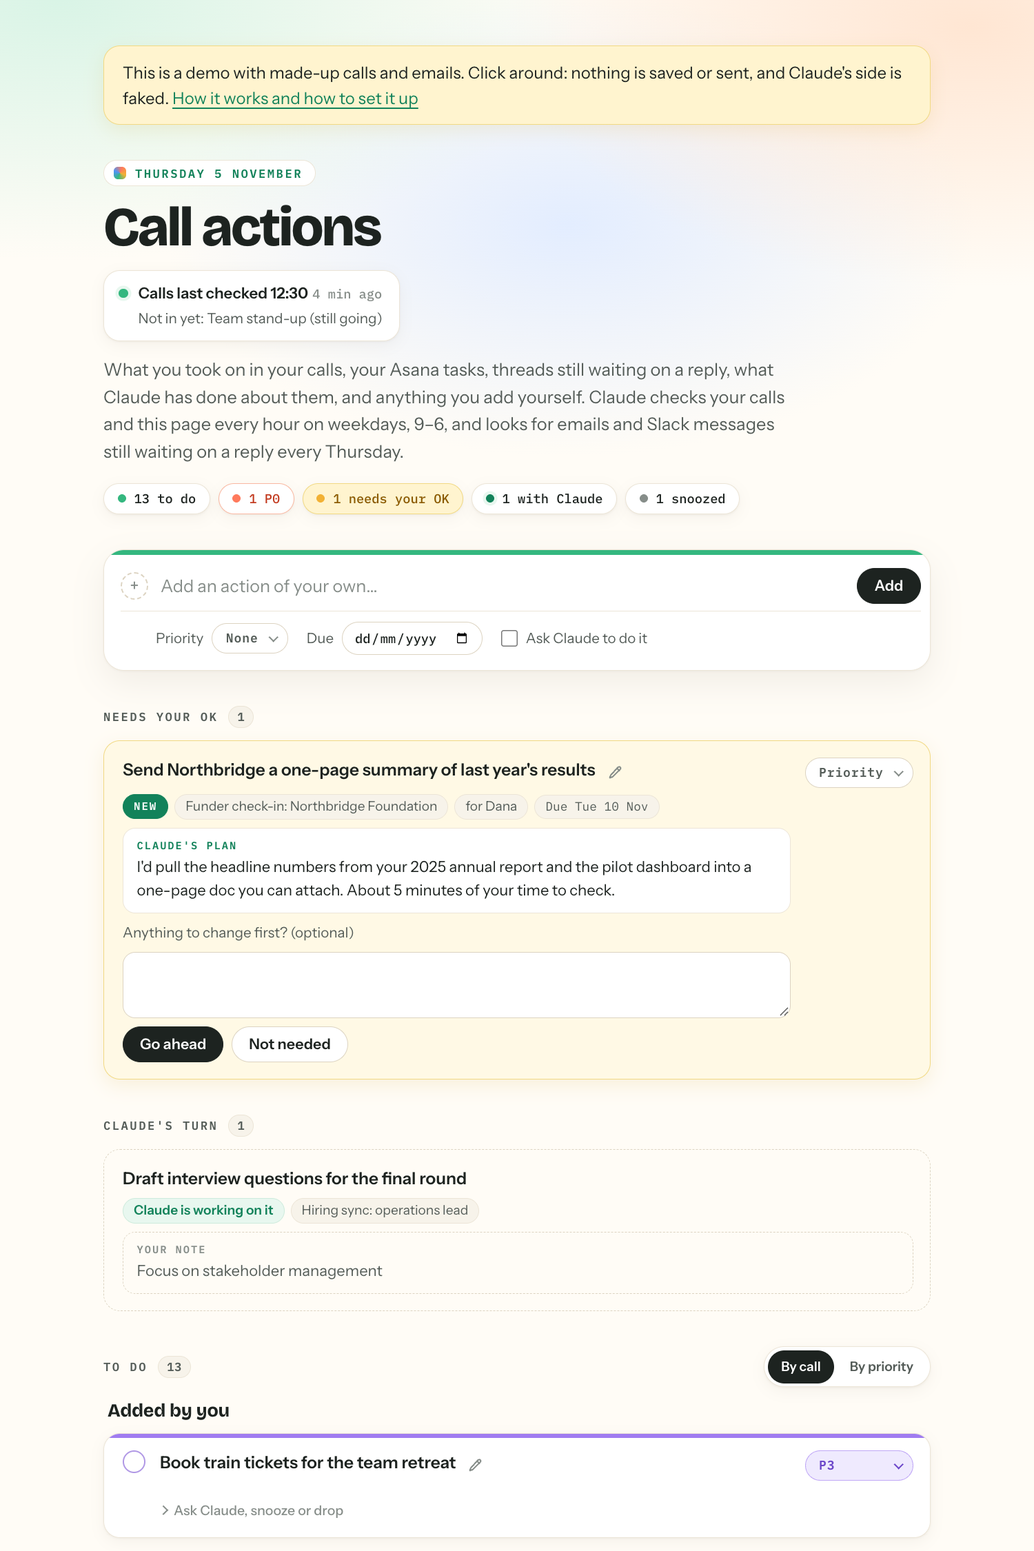
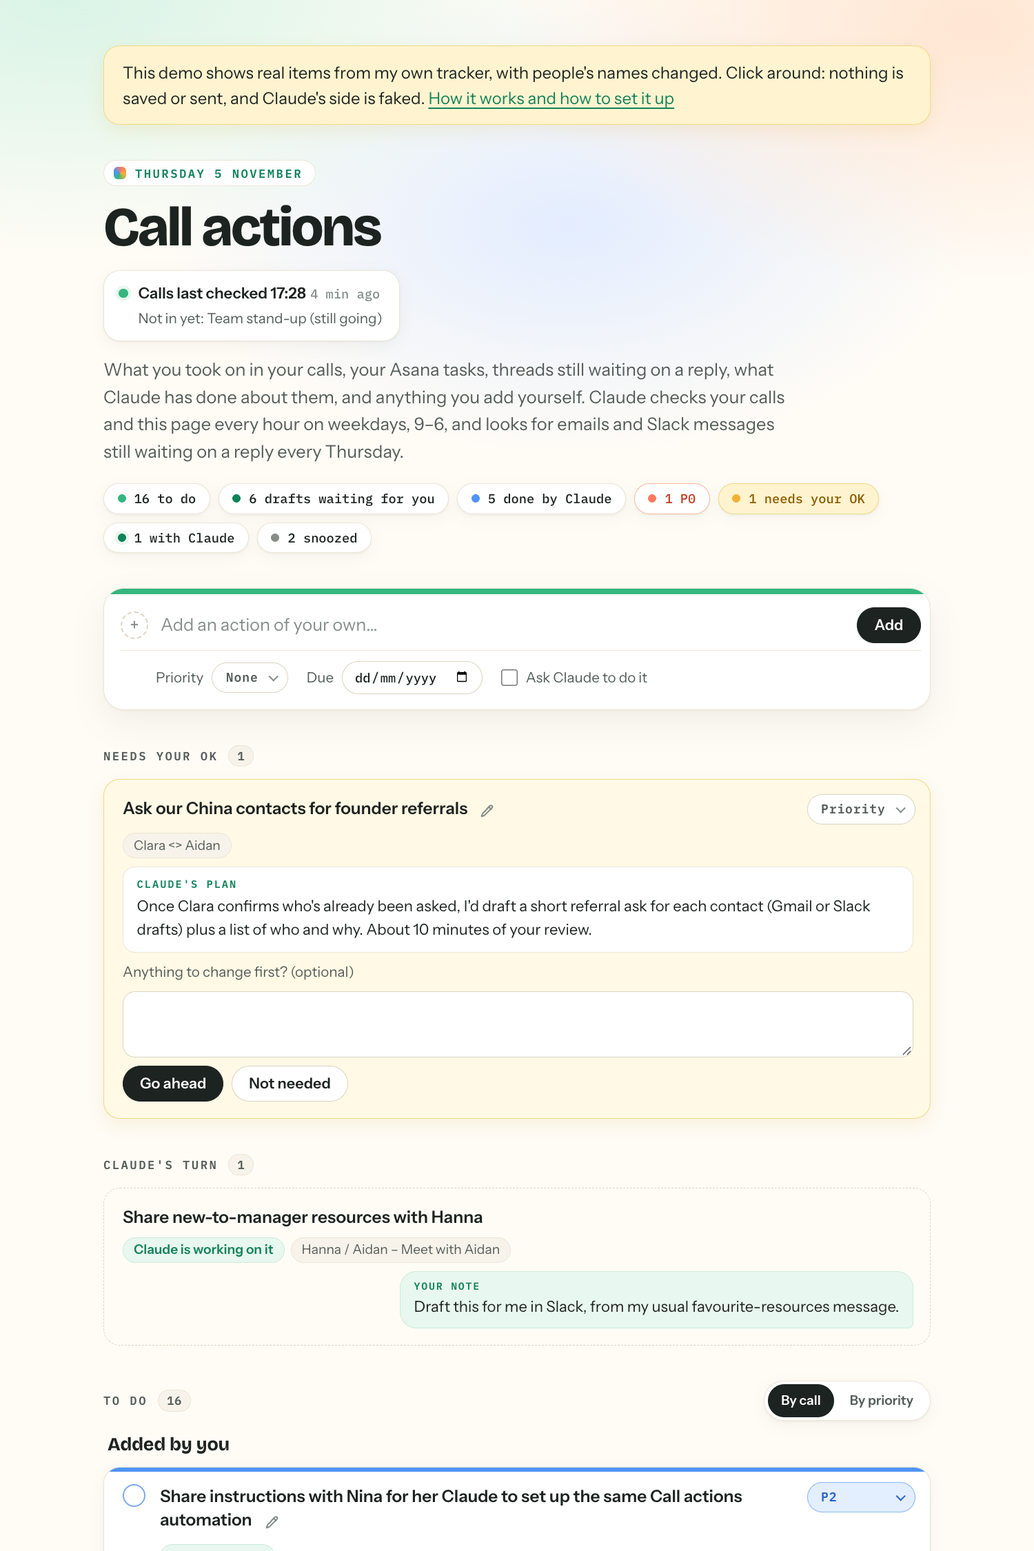
Call actions demo: real items from Aidan's tracker, names changed
Shows the range: drafts, things Claude did, a plan, snoozes with his
reminder notes, Asana tasks with context, and his real feedback with
Claude's replies. Follow-ups stay made up. New screenshot.

diff --git a/call-actions/demo/demo.js b/call-actions/demo/demo.js
@@ -1,5 +1,5 @@
 // Demo data for the Call actions page. It stands in for the claude.ai runtime (window.claude), so the
-// real page runs here with made-up calls and emails. Nothing is saved or sent: reload to start again.
+// real page runs here with real items from Aidan's tracker (names changed) and a few made-up ones. Nothing is saved or sent: reload to start again.
 // Claude's side is faked and sped up: things you queue get "done" in a few seconds, with canned text.
 (() => {
   "use strict";
@@ -14,61 +14,123 @@
   const SUMMARY = "../../summarise-granola/example/";
   const demo = (label) => ({ label: label + " (demo)", url: ABOUT });
 
+  // Real items from Aidan's own tracker, with people's names changed, and some of his real feedback.
+  // The follow-ups at the end are made up.
   const calls = {
-    "demo-call-1": { title: "Funder check-in: Northbridge Foundation", date: day(0), summaryUrl: SUMMARY, actionCount: 3, error: null, addedAt: ago(2 * HOUR) },
-    "demo-call-2": { title: "Weekly 1:1: Priya / Sam", date: day(-1), summaryUrl: SUMMARY, actionCount: 3, error: null, addedAt: ago(26 * HOUR) },
-    "demo-call-3": { title: "Hiring sync: operations lead", date: day(-2), summaryUrl: SUMMARY, actionCount: 2, error: null, addedAt: ago(50 * HOUR) },
-    "demo-call-4": { title: "Board prep with Jo", date: day(-4), summaryUrl: SUMMARY, actionCount: 3, error: null, addedAt: ago(98 * HOUR) },
-    "demo-call-5": { title: "Intro call: volunteer coordinator", date: day(-5), summaryUrl: SUMMARY, actionCount: 0, error: null, addedAt: ago(122 * HOUR) },
+    "c-weekly": { title: "Rafael / Aidan – Weekly 1:1", date: day(-1), summaryUrl: SUMMARY, actionCount: 3, error: null, addedAt: ago(26 * HOUR) },
+    "c-incub": { title: "Incubator discussion", date: day(-1), summaryUrl: SUMMARY, actionCount: 4, error: null, addedAt: ago(24 * HOUR) },
+    "c-theo": { title: "Theo / Aidan", date: day(-2), summaryUrl: SUMMARY, actionCount: 3, error: null, addedAt: ago(50 * HOUR) },
+    "c-ines": { title: "Ines / Aidan", date: day(-2), summaryUrl: SUMMARY, actionCount: 1, error: null, addedAt: ago(49 * HOUR) },
+    "c-hanna": { title: "Hanna / Aidan – Meet with Aidan", date: day(-2), summaryUrl: SUMMARY, actionCount: 2, error: null, addedAt: ago(48 * HOUR) },
+    "c-clara": { title: "Clara <> Aidan", date: day(-2), summaryUrl: SUMMARY, actionCount: 4, error: null, addedAt: ago(47 * HOUR) },
+    "c-ben": { title: "Ben <> Aidan feedback", date: day(-3), summaryUrl: SUMMARY, actionCount: 2, error: null, addedAt: ago(74 * HOUR) },
+    "c-round": { title: "Animal round: plan to February", date: day(-6), summaryUrl: SUMMARY, actionCount: 0, error: null, addedAt: ago(146 * HOUR) },
   };
   const fromCall = (id, n) => ({ source: "call", n, callId: id, callTitle: calls[id].title, callDate: calls[id].date, summaryUrl: calls[id].summaryUrl });
 
   const actions = {
-    "demo-a1": Object.assign(fromCall("demo-call-1", 1), { text: "Send Northbridge a one-page summary of last year's results", kind: "plan", state: "needs_ok", who: "for Dana", due: day(5),
-      claude: "I'd pull the headline numbers from your 2025 annual report and the pilot dashboard into a one-page doc you can attach. About 5 minutes of your time to check.", links: [], createdAt: ago(2 * HOUR) }),
-    "demo-a2": Object.assign(fromCall("demo-call-1", 2), { text: "Email Dana the case study she asked for", kind: "drafted", state: "open", who: "for Dana", priority: "P1",
-      claude: "Drafted a reply on your thread with Dana, linking the case study you mentioned. Ready to check and send.", links: [demo("Gmail draft")], createdAt: ago(2 * HOUR) }),
-    "demo-a3": Object.assign(fromCall("demo-call-1", 3), { text: "Decide whether to apply for the larger grant tier", kind: "yours", state: "open", due: day(9),
-      claude: "Dana said the deadline is the end of the month. The eligibility criteria are linked.", links: [demo("Eligibility criteria")],
-      note: "Is the larger tier open to organisations our size?", noteAt: ago(90 * 60000),
-      reply: "Yes: the criteria say any registered charity under £5m a year can apply, so you qualify.", createdAt: ago(2 * HOUR) }),
-    "demo-a4": Object.assign(fromCall("demo-call-2", 1), { text: "Give Tom feedback on the pilot report", kind: "yours", state: "open", who: "for Tom", due: day(1), createdAt: ago(26 * HOUR) }),
-    "demo-a5": Object.assign(fromCall("demo-call-2", 2), { text: "Share the onboarding checklist with Priya", kind: "drafted", state: "done", doneAt: ago(20 * HOUR), createdAt: ago(26 * HOUR) }),
-    "demo-a6": Object.assign(fromCall("demo-call-2", 3), { text: "Check in on the pilot sign-up numbers", kind: "yours", state: "open", due: day(60),
-      claude: "You asked Claude to remind you in two months. It turns P0 the day before it's due.", createdAt: ago(26 * HOUR) }),
-    "demo-a7": Object.assign(fromCall("demo-call-3", 1), { text: "Check references for the two finalists", kind: "yours", state: "open", priority: "P1", due: day(2), createdAt: ago(50 * HOUR) }),
-    "demo-a8": Object.assign(fromCall("demo-call-3", 2), { text: "Draft interview questions for the final round", kind: "plan", state: "working", queuedAt: ago(HOUR),
-      note: "Focus on stakeholder management", noteAt: ago(HOUR), createdAt: ago(50 * HOUR) }),
-    "demo-a9": Object.assign(fromCall("demo-call-4", 1), { text: "Ask Jo which board papers need sign-off", kind: "yours", state: "open", who: "for Jo", priority: "P2", createdAt: ago(98 * HOUR) }),
-    "demo-a10": Object.assign(fromCall("demo-call-4", 2), { text: "Send the board pack to all trustees", kind: "yours", state: "dropped", doneAt: ago(70 * HOUR),
-      note: "The chair sends this, not me", noteAt: ago(70 * HOUR), createdAt: ago(98 * HOUR) }),
-    "demo-a12": Object.assign(fromCall("demo-call-4", 3), { text: "Block time to read the board pack", kind: "did", state: "open", priority: "P2", due: day(3),
-      claude: "You asked for time to read it before the meeting, so I blocked Thursday 10:00–11:30 in your calendar as \"Read the board pack\". No guests, so nothing was sent.",
-      links: [demo("Calendar hold")], createdAt: ago(98 * HOUR) }),
-    "demo-a11": { text: "Book train tickets for the team retreat", kind: "manual", source: "manual", state: "open", priority: "P3", createdAt: ago(30 * HOUR) },
-    "asana-demo-1": { text: "Review the volunteer handbook draft", source: "asana", kind: "yours", state: "open", due: day(3),
-      asanaProject: "Volunteering 2027", asanaUrl: "https://asana.com/", createdAt: ago(3 * DAY) },
-    "asana-demo-3": { text: "Review", source: "asana", kind: "yours", state: "open", due: day(6), who: "from Sam",
-      asanaParent: "Volunteer impact report", asanaProject: "Reports", asanaUrl: "https://asana.com/", asanaName: "Review",
-      claude: "Your review of Priya's \"Volunteer impact report\", after the first draft and before she sends it to the board. Jo is reviewing too; the report is due in two weeks.",
+    // Needs your OK: a plan
+    "a-plan": Object.assign(fromCall("c-clara", 3), { text: "Ask our China contacts for founder referrals", kind: "plan", state: "needs_ok",
+      claude: "Once Clara confirms who's already been asked, I'd draft a short referral ask for each contact (Gmail or Slack drafts) plus a list of who and why. About 10 minutes of your review.",
+      links: [], createdAt: ago(47 * HOUR) }),
+    // Drafts waiting for you
+    "a-pm": Object.assign(fromCall("c-clara", 1), { text: "Draft how we'll judge the second-interview experiment", kind: "drafted", state: "open", who: "for Clara", priority: "P1",
+      claude: "Drafted a first version in a new doc: what's being tested, what we can measure, nine questions for Clara and a suggested decision rule. Two [NEED] gaps to fill, then share it with Clara.",
+      links: [demo("Draft doc")], createdAt: ago(47 * HOUR) }),
+    "a-sched": Object.assign(fromCall("c-incub", 2), { text: "Send Marta a scheduling link for the programme design follow-up", kind: "drafted", state: "open", who: "for Marta", priority: "P1",
+      claude: "Drafted a reply on her thread with your scheduling link. Check the link before sending.", links: [demo("Gmail draft")], createdAt: ago(24 * HOUR) }),
+    "a-tips": Object.assign(fromCall("c-incub", 1), { text: "Collate incubation-coaching tips from calls, flagged sensitive vs shareable", kind: "drafted", state: "open",
+      claude: "I made a tighter version and left the original as it was: 45 items instead of about 70, split into \"Advice for others\" (grouped by topic) and \"How we do it\", each still tagged shareable or sensitive.",
+      links: [demo("Tips doc")], note: "It's very thorough but maybe a bit unwieldy, with too many items. Is that the best way to collate insights to later distil?",
+      noteAt: ago(22 * HOUR), reply: "I'd keep the long dated list as the raw log while calls keep coming, and distil an advice-only version once there are three or four calls behind it.",
+      createdAt: ago(24 * HOUR) }),
+    "a-manual": { text: "Share instructions with Nina for her Claude to set up the same Call actions automation", kind: "drafted", source: "manual", state: "open", priority: "P2",
+      claude: "I've revised the doc to follow your note: setup is now one screen with your choices pre-selected, so she can just click Next.", links: [demo("Setup doc")],
+      note: "The best way to do setup is one screen with a bunch of choices, with my choice there by default.", noteAt: ago(30 * HOUR),
+      reply: "Done: it's one screen now, with your choices ticked by default.", createdAt: ago(3 * DAY) },
+    // Done by Claude
+    "a-ines": Object.assign(fromCall("c-ines", 1), { text: "Block time for the content-role candidate vetting", kind: "did", state: "open", who: "for Ines",
+      claude: "Blocked Thursday 09:30–11:45 and Friday 09:00–12:45 in your calendar as \"Content-role candidate vetting\". No guests, so nothing was sent.",
+      links: [demo("Thursday hold"), demo("Friday hold")],
+      note: "Block out the first half of Thursday and Friday in my calendar, where I don't already have things scheduled.", noteAt: ago(48 * HOUR),
+      reply: "Done: holds in your own calendar, in the free time, with no guests.", createdAt: ago(49 * HOUR) }),
+    "a-clara-li": Object.assign(fromCall("c-clara", 4), { text: "Ask Clara whether we've sent outreach from the founders' LinkedIn accounts", kind: "did", state: "open", who: "for Clara",
+      claude: "Fixed: added a new section for your next 1:1 (copied from the doc's Template tab), with the point in your cell. Clara has declined the one before, so it's the one after. I also removed the earlier copy from the past meeting.",
+      links: [demo("1:1 doc with Clara")],
+      note: "You added it to a meeting gone by. You should have been able to tell from the dates of the sections.", noteAt: ago(40 * HOUR),
+      reply: "Sorry about that. The agenda script took an undated section for the next meeting even though it had happened. It now checks the dates.", createdAt: ago(47 * HOUR) }),
+    "a-channel": Object.assign(fromCall("c-weekly", 1), { text: "Find out what the founders' Slack channel is for and who owns it", kind: "did", state: "open",
+      claude: "The founders-only channel is private, created in June 2025 by Dan, so he's the likely owner. My guess is the sheet marks founders who aren't in it; worth a quick check with Nina.",
+      links: [demo("The channel")],
+      note: "That's the one I meant. I've added it to my call with Nina to figure out what it's for and who manages it.", noteAt: ago(20 * HOUR),
+      reply: "Thanks, that settles it: since it's on your agenda with Nina, there's nothing left for me to do here. Tick it off once she's told you who manages it.",
+      createdAt: ago(26 * HOUR) }),
+    "a-agenda": Object.assign(fromCall("c-weekly", 2), { text: "Ask Nina whether funding networks count as incubated or just supported", kind: "did", state: "open", who: "for Nina", due: day(4),
+      claude: "Added to your agenda for your next 1:1 with Nina, with her call on the unsure cases folded in.", links: [demo("1:1 doc with Nina")], createdAt: ago(26 * HOUR) }),
+    "a-intro": Object.assign(fromCall("c-hanna", 1), { text: "Introduce a new charity leader to the London community", kind: "did", state: "open", due: day(60),
+      claude: "I added a 15-minute reminder to your calendar for the first Monday in January: \"Speak to Hanna: intro, and bring the new leader into the London community\". No guests.",
+      links: [demo("Calendar hold")],
+      note: "Please set a calendar reminder for me in early January to speak to Hanna about getting an intro.", noteAt: ago(47 * HOUR),
+      reply: "Done: it's in your calendar for the first Monday back.", createdAt: ago(48 * HOUR) }),
+    // Yours
+    "a-review": Object.assign(fromCall("c-theo", 3), { text: "Review Theo's win-wins V2, especially the yellow highlights", kind: "yours", state: "open", who: "for Theo", due: day(1),
+      claude: "Theo's V2 links product and market characteristics to kinds of effects; he wants your take on the yellow-highlighted bits.", links: [demo("Win-wins V2")], createdAt: ago(50 * HOUR) }),
+    "a-funder": Object.assign(fromCall("c-incub", 4), { text: "Report back to Marta after my call with a funder about incubation", kind: "yours", state: "open", who: "for Marta", priority: "P2",
+      claude: "Your call with the funder is on Friday at 15:00.", createdAt: ago(24 * HOUR) }),
+    // Claude's turn
+    "a-resources": Object.assign(fromCall("c-hanna", 2), { text: "Share new-to-manager resources with Hanna", kind: "yours", state: "working", queuedAt: ago(5 * 60000), who: "for Hanna",
+      note: "Draft this for me in Slack, from my usual favourite-resources message.", noteAt: ago(6 * 60000), createdAt: ago(48 * HOUR) }),
+    // Snoozed, with the reminder he asked for
+    "a-winddown": Object.assign(fromCall("c-incub", 3), { text: "Share the wind-down policy with Marta once it's written", kind: "yours", state: "snoozed", who: "for Marta",
+      due: day(110), snoozeUntil: day(60), snoozedAt: ago(23 * HOUR), note: "Send me a reminder in mid-January.", noteAt: ago(23 * HOUR),
+      reply: "Snoozed until mid-January, so it'll come back on your list then.", createdAt: ago(24 * HOUR) }),
+    "a-contact": Object.assign(fromCall("c-weekly", 3), { text: "Contact incubated orgs not on the website about what incubation means", kind: "yours", state: "snoozed",
+      snoozeUntil: day(3), snoozedAt: ago(20 * HOUR),
+      claude: "Get context on each first, check they know they're incubated, explain the support and the asks (mostly the annual survey), and ask if they're happy to be listed.",
+      createdAt: ago(26 * HOUR) }),
+    // Done and dropped, with his notes and what Claude learnt
+    "a-norm": Object.assign(fromCall("c-ben", 1), { text: "Message Ben and Luke together from now on", kind: "yours", state: "dropped", doneAt: ago(70 * HOUR),
+      note: "This isn't an action, this is a new norm", noteAt: ago(70 * HOUR),
+      reply: "Thanks. I'll leave agreed norms and ways of working out of the action list.", createdAt: ago(74 * HOUR) }),
+    "a-expect": Object.assign(fromCall("c-ben", 2), { text: "Ask Theo what the research team expects from you and Ben", kind: "yours", state: "done", doneAt: ago(72 * HOUR),
+      note: "I did this already, adding it to my 1:1 doc with Theo. In future, you could add something like this as an agenda point in my 1:1 doc.", noteAt: ago(72 * HOUR),
+      reply: "Noted: for things to raise with someone you have a 1:1 doc with, I'll add the point to your side of the next meeting's agenda.", createdAt: ago(74 * HOUR) }),
+    "a-fund": Object.assign(fromCall("c-theo", 2), { text: "Flag Theo's interest in a new project to Nina", kind: "drafted", state: "dropped", doneAt: ago(46 * HOUR),
+      claude: "It's the second bullet of a Slack draft to Nina. Cut it if you'd rather say this one in person.",
+      note: "Belonged in 1:1 doc instead", noteAt: ago(46 * HOUR),
+      reply: "Got it. When you say you'll discuss or flag something with someone you have a 1:1 doc with, I'll add it as an agenda point there instead of drafting a Slack message.",
+      createdAt: ago(50 * HOUR) }),
+    "a-ollie": Object.assign(fromCall("c-clara", 2), { text: "Ask Ollie his rate and interest in two copy pieces", kind: "drafted", state: "done", doneAt: ago(44 * HOUR), who: "for Ollie",
+      claude: "Drafted a reply in your thread with Ollie (cc Clara) naming the January outreach copy and the onboarding emails, and asking his rate. Check and send.",
+      note: "When drafting emails, no need to sign off with my name as I have an email signature. Please add something italicised that says \"Co-written with Claude\" by default.",
+      noteAt: ago(44 * HOUR),
+      reply: "Noted: email drafts won't sign off with your name, and will end with an italic \"Co-written with Claude\". I'll apply it from the next draft.",
+      createdAt: ago(47 * HOUR) }),
+    // From Asana
+    "asana-review": { text: "Aidan Review", source: "asana", kind: "yours", state: "open", due: day(15), who: "from Theo",
+      asanaParent: "Foundational Research", asanaProject: "Deep Report Tracking", asanaUrl: "https://asana.com/", asanaName: "Aidan Review",
+      claude: "Your review of Theo's \"Foundational Research\" deep report, after the initial draft and before Theo revises it. Three others are reviewing too; the report is due in three weeks.",
       createdAt: ago(2 * DAY) },
-    "asana-demo-2": { text: "Book the venue for the spring retreat", source: "asana", kind: "yours", state: "open", priority: "P3",
-      asanaProject: "Team retreat", asanaUrl: "https://asana.com/", createdAt: ago(6 * DAY) },
-    "fu-demo-1": { text: "Follow up with Marta about the data-sharing agreement", source: "followup", channel: "email", kind: "drafted", state: "open",
-      who: "Marta Silva, City Health Trust", sentAt: day(-9),
+    "asana-heypolo": { text: "HeyPolo – Maya", source: "asana", kind: "drafted", state: "open", priority: "P1", asanaUrl: "https://asana.com/", asanaName: "HeyPolo – Maya",
+      claude: "Slack draft saved (not sent) in your DM with Maya: it suggests HeyPolo as an opt-in way for community members to see who's in a city they're passing through, for more meet-ups and co-working outside London.",
+      links: [demo("Slack draft")], createdAt: ago(5 * DAY) },
+    "asana-hotjar": { text: "Hotjar audit", source: "asana", kind: "yours", state: "open", priority: "P3", asanaUrl: "https://asana.com/", asanaName: "Hotjar audit",
+      asanaProject: "Outreach Overhaul 2026", claude: "In \"Website / shop window overhaul\" in Outreach Overhaul 2026.", createdAt: ago(9 * DAY) },
+    // Follow-ups (made up)
+    "fu-demo-1": { text: "Follow up with Lena about the data-sharing agreement", source: "followup", channel: "email", kind: "drafted", state: "open",
+      who: "Lena Brandt, City Health Trust", sentAt: day(-9),
       claude: "You asked whether they'd signed. No reply, and it hasn't come up on any other thread. I've drafted a short nudge on the same thread.",
       links: [demo("Your email"), demo("Draft")], createdAt: ago(5 * HOUR) },
     "fu-demo-2": { text: "Chase Leo for the venue quote", source: "followup", channel: "slack", kind: "yours", state: "open",
       who: "Leo, #events", sentAt: day(-8), claude: "You asked for the quote by Friday. Nobody has replied in the thread.",
       links: [demo("Your message")], createdAt: ago(5 * HOUR) },
-    "fu-demo-3": { text: "Follow up with the auditors about the timeline", source: "followup", channel: "email", kind: "drafted", state: "snoozed",
-      who: "Kemi Ade, Brightline Audit", sentAt: day(-12), snoozeUntil: day(4), snoozedAt: ago(3 * DAY),
-      claude: "Drafted a nudge on your thread with Kemi.", links: [demo("Draft")], createdAt: ago(4 * DAY) },
   };
 
   const feedback = {
-    "demo-f1": { text: "Don't draft emails to my manager, I'd rather write those myself", createdAt: ago(72 * HOUR),
-      reply: "Noted: I'll leave emails to your manager with you, and list them as yours instead. I'll apply it from the next call.", repliedAt: ago(71 * HOUR) },
+    "f-conservative": { text: "It's better to lean conservative, as false positives on tasks are costlier than false negatives.", createdAt: ago(3 * DAY),
+      reply: "Noted: when I'm unsure whether something is your action, or worth putting in front of you, I'll leave it out. I'll apply it from the next call.", repliedAt: ago(3 * DAY - HOUR) },
+    "f-long": { text: "Was too long. I fixed it, but note for future", createdAt: ago(20 * HOUR), itemId: "a-tips", itemText: "Collate incubation-coaching tips from calls, flagged sensitive vs shareable",
+      reply: "Noted: I'll keep collated docs short and grouped, and offer the long version only as a raw log. I'll apply it from the next call.", repliedAt: ago(19 * HOUR) },
   };
 
   // When Claude last checked for calls, as each run records it, with one call not in yet.
@@ -139,7 +201,7 @@
     }, ms);
   }
   const DONE_TEXT = {
-    "demo-a1": "Made the one-page summary from the annual report and the pilot dashboard, in a new doc in your Drive. About 5 minutes to check before you attach it.",
+    "a-plan": "Drafted a short referral ask for each contact as Gmail drafts, plus a list of who and why. About 10 minutes to check.",
   };
   function claudesTurn(coll, id) {
     const doc = store[coll][id];

diff --git a/call-actions/demo/index.html b/call-actions/demo/index.html
@@ -319,8 +319,8 @@ details.done > div:not(:empty) { background: var(--surface); border: 1px solid v
 </head>
 <body>
 <main class="wrap" id="app">
-  <p class="notice" style="margin:0">This is a demo with made-up calls and emails. Click around: nothing is saved or sent,
-  and Claude's side is faked. <a href="../">How it works and how to set it up</a></p>
+  <p class="notice" style="margin:0">This demo shows real items from my own tracker, with people's names changed. Click around:
+  nothing is saved or sent, and Claude's side is faked. <a href="../">How it works and how to set it up</a></p>
 
   <header class="top">
     <div class="eyebrow" id="today"></div>

diff --git a/call-actions/demo/build.py b/call-actions/demo/build.py
@@ -1,6 +1,6 @@
 """Builds demo/index.html, the live demo on GitHub Pages, from ../tracker.html.
 
-The demo is the real page plus demo.js, which fakes the claude.ai data layer with made-up
+The demo is the real page plus demo.js, which fakes the claude.ai data layer with real (renamed)
 calls. Run it after any change to tracker.html: python3 call-actions/demo/build.py
 """
 from pathlib import Path
@@ -14,8 +14,8 @@ BASE = ("<style>:root{color-scheme:light;box-sizing:border-box}body{margin:0;pad
         "font:14px -apple-system,BlinkMacSystemFont,sans-serif;background:#fff;color:#000}"
         "img{max-width:100%}[hidden]:not([hidden=until-found i]){display:none!important}</style>\n")
 BANNER = """
-  <p class="notice" style="margin:0">This is a demo with made-up calls and emails. Click around: nothing is saved or sent,
-  and Claude's side is faked. <a href="../">How it works and how to set it up</a></p>
+  <p class="notice" style="margin:0">This demo shows real items from my own tracker, with people's names changed. Click around:
+  nothing is saved or sent, and Claude's side is faked. <a href="../">How it works and how to set it up</a></p>
 """
 
 

diff --git a/call-actions/README.md b/call-actions/README.md
@@ -8,9 +8,9 @@ I keep it open all day. I have a lot of calls, and most end with a handful of sm
 
 ## What it looks like
 
-![The tracker page, with made-up items](screenshot.png)
+![The tracker page, with real items from my own tracker (names changed)](screenshot.png)
 
-**[Try the live demo](https://aidan-alexander.com/claude-tooling/call-actions/demo/)**: it runs on made-up calls and emails, so click around. Nothing is saved or sent.
+**[Try the live demo](https://aidan-alexander.com/claude-tooling/call-actions/demo/)**: it shows real items from my own tracker, with people's names changed, so click around. Nothing is saved or sent.
 
 ## What it does
 
